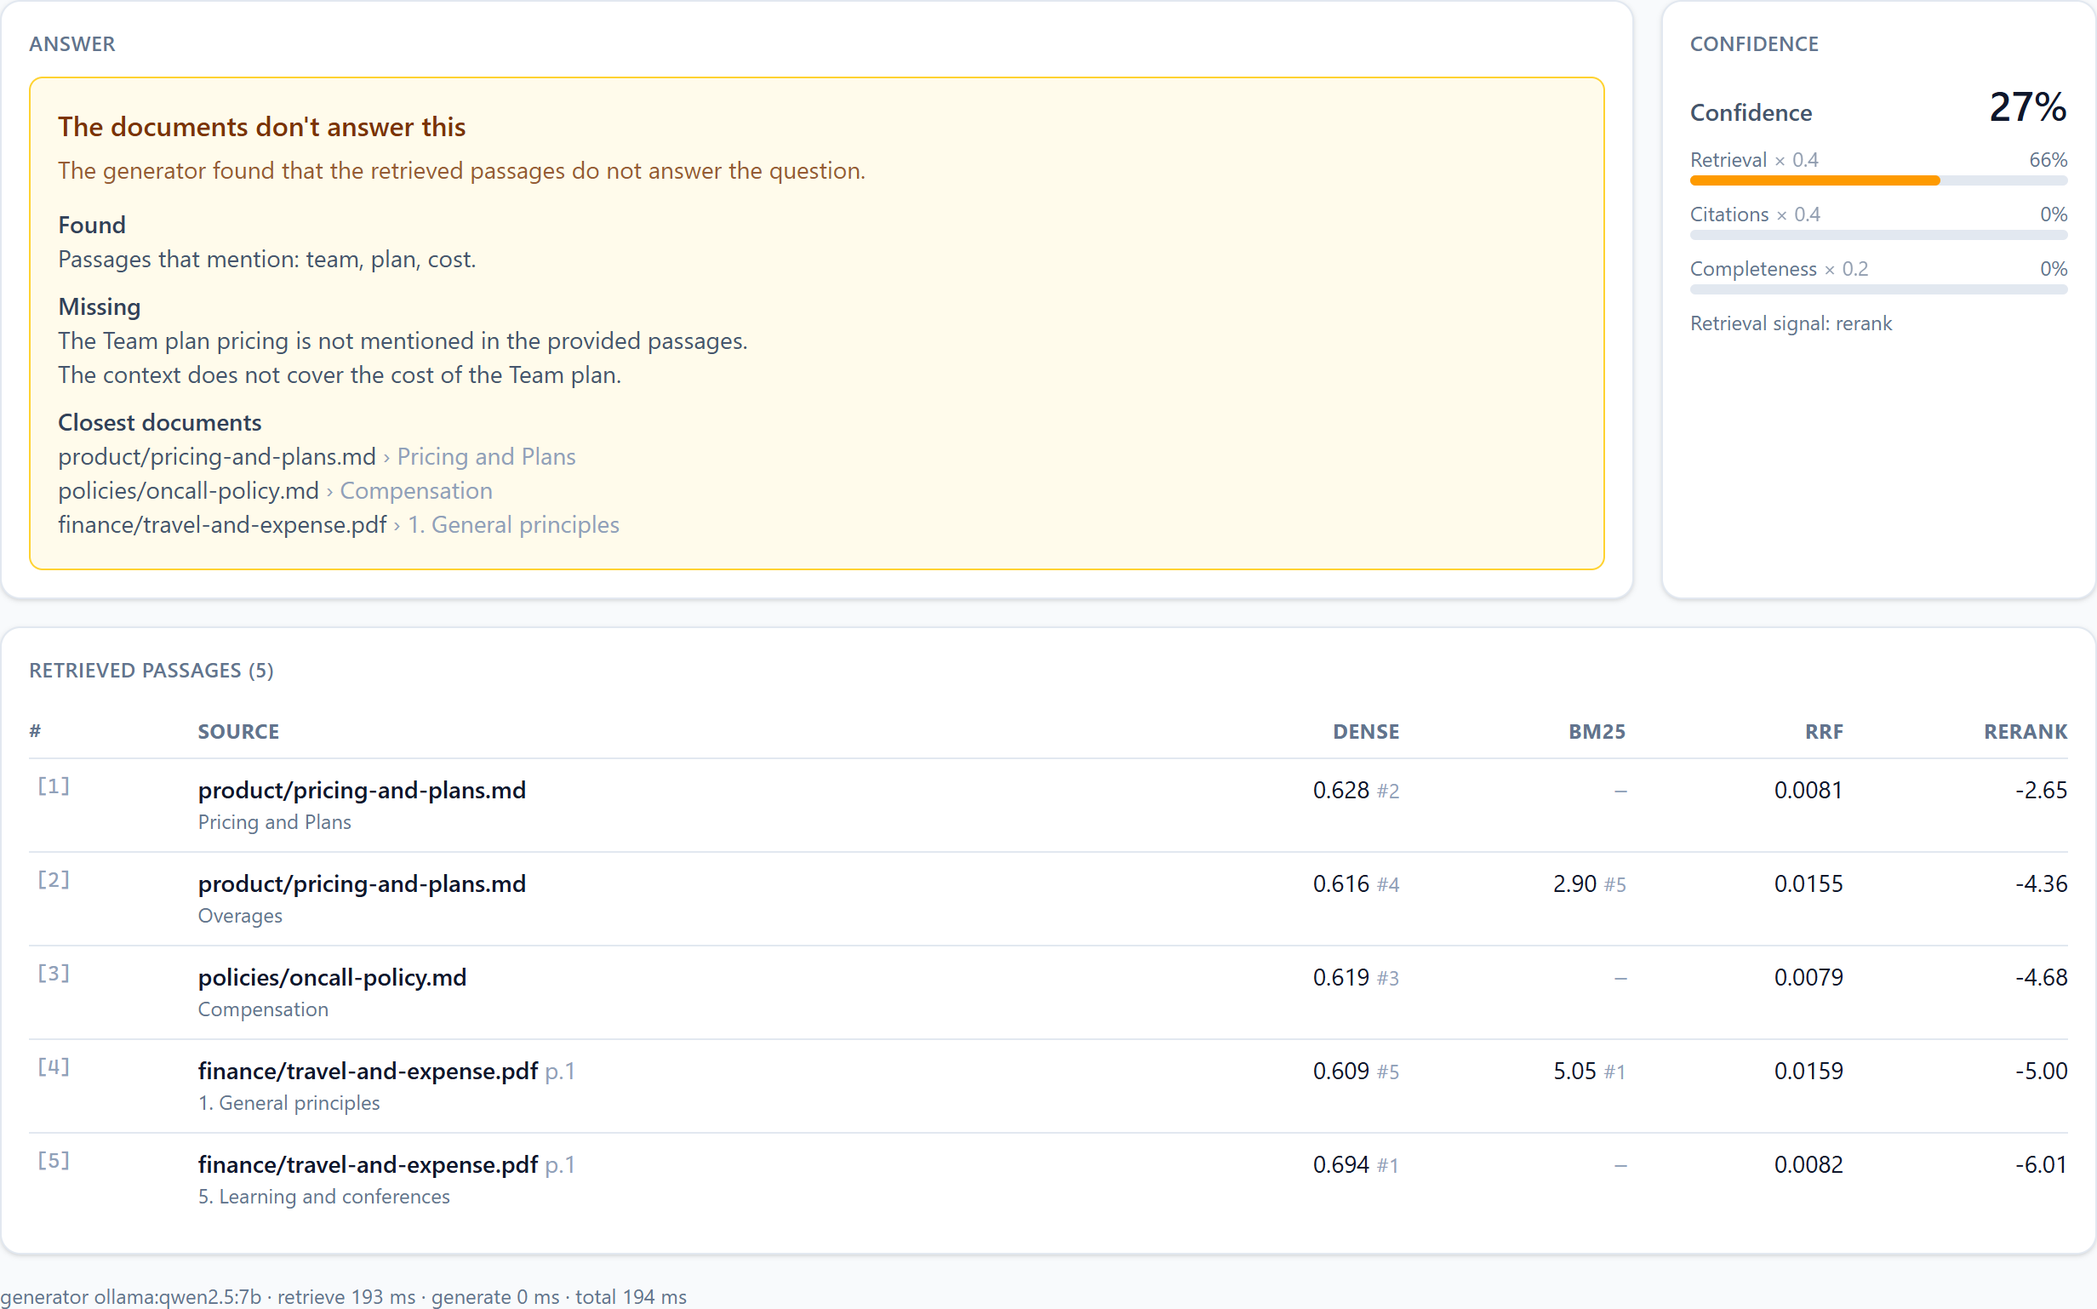
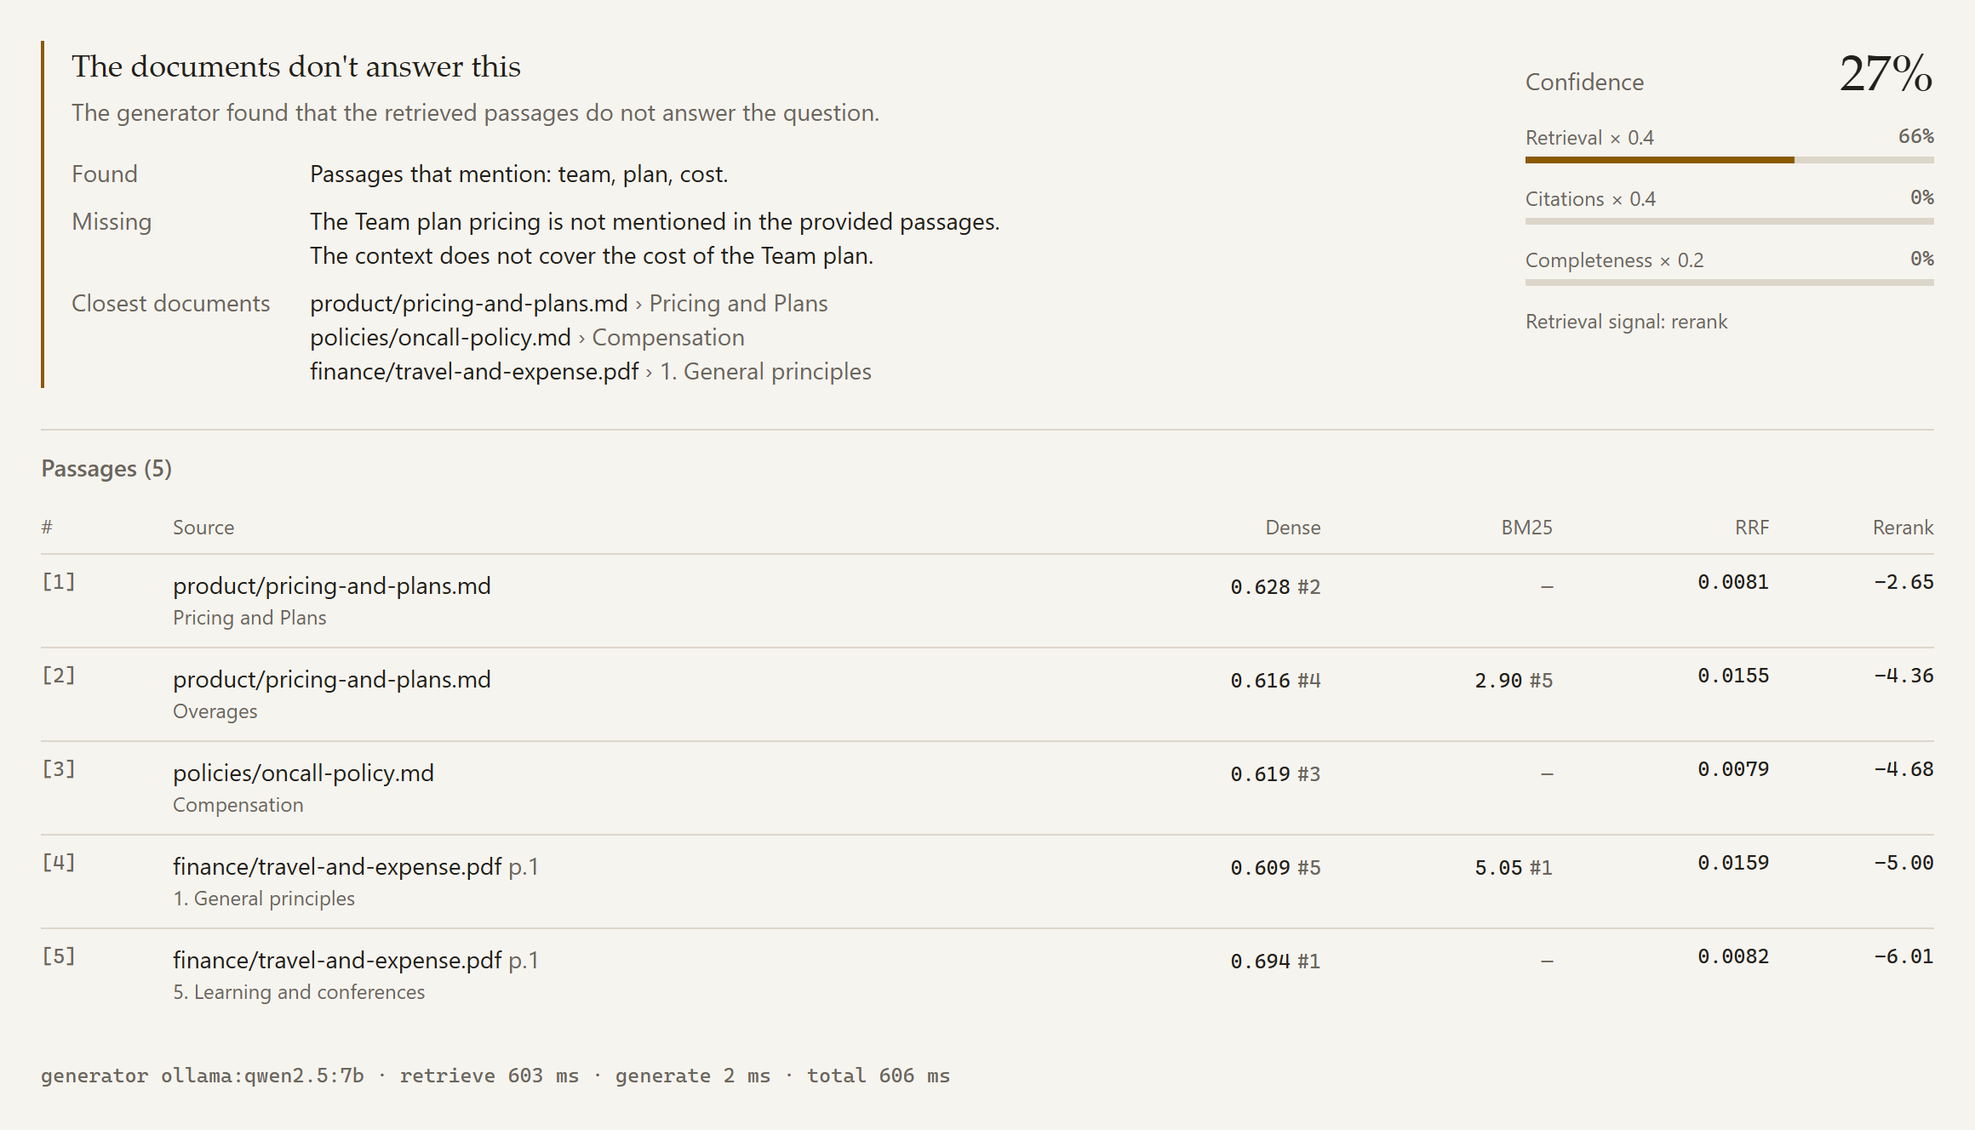
docs: state the test set's limits, add known limitations
Says who wrote the test questions, that BM25 alone ties hybrid search
on them, and that 31 of 32 is 8 questions over four setups. Adds a
known limitations section, a dark-mode screenshot and new screenshots
showing the corrected confidence.

diff --git a/README.md b/README.md
@@ -9,14 +9,14 @@ Everything runs locally on Ollama. No API keys, no per-query cost.
 ![Python](https://img.shields.io/badge/python-3.11%20%7C%203.12%20%7C%203.13-blue)
 ![License](https://img.shields.io/badge/license-MIT-green)
 
-Measured on a 55-question test set with `qwen2.5:7b` and `llama3.1:8b` on a laptop GPU:
+Measured on a 55-question test set with `qwen2.5:7b` and `llama3.1:8b` on a laptop GPU. I wrote the test questions and the sample docs myself, so these are best-case numbers; see [Known limitations](#known-limitations).
 
 | | |
 |---|---|
 | Evidence found in the top 5 results | 98.9% |
-| Correct answers, of the ones it gave | 91.3% |
+| Correct answers, of the ones it gave (graded by a model) | 91.3% |
 | Answer sentences backed by the passage they cite | 97.5% |
-| Unanswerable questions it declined to answer | 31 of 32 |
+| Questions the docs can't answer that it declined | 8 of 8 |
 
 ![Hybrid and dense-only search side by side on the query NW-4290](docs/images/compare.png)
 
@@ -50,7 +50,7 @@ Documents are split into sections and chunked one of three ways (fixed size, by 
 
 At query time both searches run, their rankings are merged with Reciprocal Rank Fusion, and a cross-encoder reranks the top 20. The answering model has to put a `[n]` after every sentence. A second model from a different family then checks each sentence against the passage it cites, all in one call, and also says whether the passages answer the question at all.
 
-The confidence score is `0.4 × retrieval + 0.4 × citation coverage + 0.2 × completeness`. Questions get declined at three points: when retrieval finds nothing relevant, when the answering model says the docs don't cover it, and when the checker finds the answer unsupported. The thresholds for those come from the test set, not from guesses.
+The confidence score is `0.4 × retrieval + 0.4 × citation coverage + 0.2 × completeness`. Citation coverage counts every citation the checker looked at, so a sentence that cites one right and one wrong passage gets half credit. Questions get declined at three points: when retrieval finds nothing relevant, when the answering model says the docs don't cover it, and when the checker finds the answer unsupported. The thresholds for those come from the test set, not from guesses.
 
 ## Running it
 
@@ -104,16 +104,18 @@ Retrieval, as the share of each question's evidence that shows up in the top 5:
 | fixed chunks + rerank | 93.6% | 97.9% | 97.9% |
 | semantic chunks + rerank | 92.5% | 94.7% | 93.6% |
 
-Reranking helps every setup, by 3 to 13 points. Dense search alone is clearly the weakest, especially on questions that need two documents. Splitting by headings beat splitting by topic shifts on these docs.
+Reranking helps every setup, by 3 to 13 points, and dense search alone is the weakest. But BM25 on its own does exactly as well as hybrid search here, and slightly better with semantic chunks. My test questions reuse a lot of the docs' wording, which suits keyword search, so on this test set the dense half adds nothing measurable. I kept it because real users paraphrase more than my questions do, but I haven't measured that. Splitting by headings beat splitting by topic shifts on these docs.
 
 Answers, graded against reference answers:
 
-| setup | correct | backed by citations | citation accuracy | answered | declined correctly / caught |
+| setup | correct | backed by citations | citation accuracy | answered | unanswerable declined |
 |---|---|---|---|---|---|
-| recursive, hybrid | **91.3%** | 97.5% | 83.9% | 97.9% | 88.9% / 100% |
-| recursive, dense | 89.1% | 96.0% | 83.9% | 97.9% | 88.9% / 100% |
-| fixed, hybrid | 87.2% | 96.3% | 86.8% | 100% | 100% / 100% |
-| semantic, hybrid | 83.3% | 94.9% | 81.8% | 95.7% | 77.8% / 87.5% |
+| recursive, hybrid | **91.3%** | 97.5% | 83.9% | 97.9% | 8 of 8 |
+| recursive, dense | 89.1% | 96.0% | 83.9% | 97.9% | 8 of 8 |
+| fixed, hybrid | 87.2% | 96.3% | 86.8% | 100% | 8 of 8 |
+| semantic, hybrid | 83.3% | 94.9% | 81.8% | 95.7% | 7 of 8 |
+
+The same 8 unanswerable questions are asked in every setup, so across the four setups that is 31 of 32 answers declined, not 32 different questions.
 
 Deciding when to decline was the hardest part. A question like "How much does the Team plan cost?" pulls up the pricing page with a high score, but there is no Team plan. No retrieval threshold can tell that apart from a real answer, so the answering model and the checker handle those cases. Across all 220 answers in the test runs:
 
@@ -125,9 +127,20 @@ Deciding when to decline was the hardest part. A question like "How much does th
 
 The test set is small, and the grading model makes mistakes too: when I went through its INCORRECT verdicts by hand, 3 of the 5 were wrong. Treat the numbers as a way to compare setups, not as exact scores.
 
+## Known limitations
+
+- **The test set is easy.** I wrote both the 26 sample documents and the 55 questions, so the questions use the documents' own words. Real questions would score lower, and they would probably favour hybrid search over BM25 more than mine do.
+- **Few near misses.** Only 6 distinct questions are of the "sounds answerable but isn't" kind, like asking for the price of a Team plan that doesn't exist. With semantic chunking one of them still gets through: the model calls the Growth plan the Team plan and the checker accepts it.
+- **The grader is noisy.** Correctness comes from `llama3.1:8b` comparing answers to reference answers, and it often marks right answers wrong.
+- **The confidence score doesn't separate right from wrong answers.** On the main setup it averages 93% for both. It's useful for spotting unsupported citations in a single answer, not as a filter.
+- **Refusals split over two lines** are parsed as a gap plus a cited fact. The checker usually catches it, but the parser should handle it (TODO in `src/hyrag/generation/claims.py`).
+- **Duplicate removal keeps the first copy it sees**, which on the sample docs is the leave FAQ rather than the official PTO policy (TODO in `src/hyrag/index/dedup.py`).
+- **It's slow.** About 15 seconds per answer on an 8 GB GPU, 11 of them spent checking citations while the two models swap in and out of memory.
+- **The system prompt names the sample company.** Point it at your own docs and the prompt still tells the model they belong to Northwind Cloud, until you edit `src/hyrag/generation/prompts.py`.
+
 ## Screenshots
 
-When the model cites a passage that doesn't support a sentence, the checker flags it and the citation is struck through:
+When the model cites a passage that doesn't support a sentence, the checker flags it, the citation is struck through and the citation part of the confidence score drops:
 
 ![An answer with two flagged citations](docs/images/answer.png)
 
@@ -138,6 +151,10 @@ A question the docs can't answer. It shows what it found, what's missing and whe
 The evaluation tab:
 
 ![The evaluation tab](docs/images/evaluation.png)
+
+The dashboard follows the system's dark mode:
+
+![The ask tab in dark mode](docs/images/dark.png)
 
 ## Project layout
 

diff --git a/docs/ROADMAP.md b/docs/ROADMAP.md
@@ -1,56 +1,15 @@
 # Roadmap
 
-hy-rag is built in five phases. Each phase ends with a stable interface that the next phase builds on, and ships as a tagged release.
+Things I'd like to do next, roughly in order:
 
-| Phase | Release | Focus | Handoff interface |
-|---|---|---|---|
-| 1 | v0.1.0 | Multi-format ingestion and chunking | `load_corpus()`, `get_chunker().chunk()` |
-| 2 | v0.2.0 | Indexing, dedup and hybrid retrieval | `HybridRetriever.retrieve()` |
-| 3 | v0.3.0 | Grounded generation, citation verification, confidence | `AnswerPipeline.ask()` |
-| 4 | v0.4.0 | Evaluation framework and FastAPI service | `eval/results/summary.json`, `/v1/*` |
-| 5 | v1.0.0 | React dashboard, Docker, case study | `docker compose up` |
-
-## Phase 1: Ingestion and chunking ✅
-
-- [x] Loaders for Markdown, text, HTML and PDF, with normalized metadata
-- [x] Raw and processed document store; re-index without re-uploading
-- [x] Fixed, recursive (header-aware) and semantic chunking strategies
-- [x] Northwind Cloud sample corpus (26 docs, 4 formats)
-- [x] CI, tests and community files
-
-## Phase 2: Indexing and hybrid retrieval ✅
-
-- [x] Local embeddings (`bge-small-en-v1.5` via fastembed) with a disk cache
-- [x] ChromaDB vector store and BM25 index kept in sync by a single index manager
-- [x] Near-duplicate filtering (cosine > 0.95) before insert
-- [x] Dense and sparse retrieval, weighted Reciprocal Rank Fusion
-- [x] Cross-encoder reranking (top 20 → top 5)
-
-## Phase 3: Generation and citations ✅
-
-- [x] LLM adapters: Ollama (default, local), optional OpenAI and Anthropic, a response cache and a deterministic stub for CI
-- [x] Grounded prompt with numbered `[n]` citations
-- [x] Citation verification with an LLM judge from a different model family, batched into one call
-- [x] Composite confidence score (retrieval, citation coverage, completeness)
-- [x] Structured "I don't know" responses when retrieval is weak
-
-## Phase 4: Evaluation and API ✅
-
-- [x] 55-question golden dataset: lookup, multi-hop, exact-term, unanswerable, ambiguous
-- [x] Metrics: recall@k, MRR, correctness, faithfulness, citation accuracy, abstention precision
-- [x] Comparison matrix: 3 chunking strategies × hybrid / dense / sparse, with and without reranking
-- [x] Abstention thresholds tuned on the eval data, plus a judge answerability check
-- [x] FastAPI service: `/v1/ask`, `/v1/search`, `/v1/documents`, `/v1/ingest`, `/v1/eval/summary`
-- [x] Offline evaluation in CI on every pull request
-
-## Phase 5: Dashboard and deployment ✅
-
-- [x] React dashboard: answers with clickable citations, score breakdowns, hybrid vs dense comparison, eval charts, document upload
-- [x] Docker Compose with the API (Chroma embedded in the API), Ollama and the dashboard, plus a seed script and a GPU file
-- [x] Case study with evaluation results, and a demo script
-
-## Beyond 1.0
-
-- More near-miss questions in the golden set, and human labels to calibrate the correctness judge
-- A smaller judge, or room for both models on the GPU, to cut verification latency
-- A Chroma server behind `VectorStore` if the index outgrows one machine
+- Add more near-miss questions to the test set. There are only 6 distinct ones, so the
+  numbers for declining rest on very few cases.
+- Get the test questions written by someone who didn't write the sample documents. Right
+  now both come from me, which makes the test easier than real questions would be.
+- Label a few dozen answers by hand to check the grading model, which is often wrong about
+  what counts as incorrect.
+- Parse refusals that the model splits over two lines (see the TODO in
+  `src/hyrag/generation/claims.py`).
+- Cut the time per answer. Most of it goes to swapping the answering and checking models in
+  and out of an 8 GB GPU; a smaller checking model would help.
+- Let the system prompt name the user's own organisation instead of the sample company.

diff --git a/docs/demo-script.md b/docs/demo-script.md
@@ -4,15 +4,16 @@ A shot list for a screen recording. Start with the stack running (`docker compos
 
 | # | Time | Screen | Say |
 |---|---|---|---|
-| 1 | 0:00–0:20 | README, scrolled to the results table | "This is a RAG system over a company's internal docs: runbooks, configs, policies, postmortems. It runs fully local on a laptop GPU, and every number here comes from a 55-question evaluation." |
+| 1 | 0:00–0:20 | README, scrolled to the results table | "This answers questions over a set of internal docs: runbooks, configs, policies, postmortems. It runs locally on a laptop GPU. The numbers come from 55 test questions I wrote alongside the sample docs, so they're a best case." |
 | 2 | 0:20–0:55 | Ask tab: "What error do I get when a batch exceeds ingest.max_batch_size?" | "Each sentence cites a passage. Click `[1]` and it scrolls to the passage and highlights it. Under that, a second model, from a different family, checked every sentence against the passage it cites." |
-| 3 | 0:55–1:35 | Turn on **Compare hybrid vs dense**, turn off **Rerank**, ask `NW-4290` | "Error codes are where embeddings fail. Dense search alone ranks this error's own page tenth; it's guessing. Keyword search finds it first, and the hybrid combines both. Look at the score columns: dense, BM25, fusion, rerank, all visible." |
-| 4 | 1:35–2:10 | Ask "What should I do when CertExpiringSoon fires?" | "Here the model cited two irrelevant passages along with the right one. The judge flagged them in red, and the confidence score drops. You see the mistake instead of trusting it." |
+| 3 | 0:55–1:35 | Turn on **Compare hybrid vs dense**, turn off **Rerank**, ask `NW-4290` | "Error codes are where embeddings struggle. Dense search alone ranks this error's own page tenth, so it declines to answer. Keyword search finds it first. The columns show each stage's score." |
+| 4 | 1:35–2:10 | Ask "What should I do when CertExpiringSoon fires?" | "Here the model cited two irrelevant passages along with the right one. The checker crosses them out, and the citation part of the confidence score drops with them." |
 | 5 | 2:10–2:50 | Ask "How much does the Team plan cost?", then "Who won the 2022 World Cup?" | "There is no Team plan. The pricing page is retrieved and looks relevant, but the model says the documents don't answer it, and shows what it found, what's missing and where to look. The football question never reaches the model at all: retrieval confidence is near zero." |
-| 6 | 2:50–3:25 | Evaluation tab | "Hybrid plus reranking finds 98.9% of the evidence. Answers are 91% correct with 97.5% of sentences supported. Wrong answers shown drop from 41 to 6 out of 220 with the abstention layers, and those thresholds were tuned on the data, not guessed." |
+| 6 | 2:50–3:25 | Evaluation tab | "On this test set BM25 alone is as good as hybrid, which surprised me; the questions reuse the documents' wording. Dense on its own is clearly worse. With the declining rules, wrong answers shown went from 41 to 6 out of 220." |
 | 7 | 3:25–3:50 | Documents tab: drag in a Markdown file, then ask about it | "Upload a document and it's chunked, deduplicated, embedded and searchable in a few seconds." |
-| 8 | 3:50–4:00 | Terminal: `docker compose up` | "One command, no API keys, zero cost per query. The case study in the repo walks through every decision and the numbers behind it." |
+| 8 | 3:50–4:00 | Terminal: `docker compose up` | "One command, no API keys. The case study in the repo has the details and the known gaps." |
 
-**Tips:**
+Notes:
+
 - Record at 1440×900 or larger; the side-by-side view needs the width.
 - For shot 7, prepare a small Markdown file with a distinctive term, for example a fictional on-call tool named "Q-77", so the answer obviously comes from the upload.

diff --git a/docs/case-study.md b/docs/case-study.md
@@ -1,6 +1,8 @@
 # Case study: checked answers over internal docs, on a laptop
 
-In short: on a 55-question test set, 97.5% of answer sentences are backed by the passage they cite, 83.9% of individual citations hold up, and 31 of 32 unanswerable questions are declined. It runs on 7B and 8B models on an 8 GB laptop GPU, so there's no per-query cost.
+In short: on a 55-question test set, 97.5% of answer sentences are backed by the passage they cite, 83.9% of individual citations hold up, and all 8 questions the docs can't answer are declined. It runs on 7B and 8B models on an 8 GB laptop GPU, so there's no per-query cost.
+
+One caveat up front: I wrote the test questions and the documents, so the questions use the documents' own wording. Treat these as best-case numbers.
 
 ## The problem
 
@@ -22,6 +24,8 @@ I also replaced the BM25 scoring in `rank_bm25`. Its idf gives zero weight to an
 
 Result: 84.0% recall@5 for dense search alone, 98.9% for hybrid with reranking.
 
+The less flattering part: BM25 on its own also gets 98.9%, and with semantic chunks it beats hybrid slightly (94.7% against 93.6%). On my test set the dense half adds nothing measurable, because the questions repeat the documents' words and keyword search is good at that. Whether dense search earns its place on paraphrased questions I haven't tested.
+
 ### Citations that point at the wrong passage
 
 Asked how many PTO days carry over, `qwen2.5:7b` gave the right answer, "up to 5", but cited a passage about taking time off during an on-call week. Anyone who clicked that citation would be misled even though the answer was right.
@@ -30,7 +34,9 @@ So a second model, `llama3.1:8b`, checks every sentence against the passage it c
 
 Two prompt fixes mattered as well. Labelling passages `<passage id="n">` instead of `[n] Source:` stopped the 7B model from confusing passage headers with its own citations. And a worked example in the prompt got copied into an unrelated answer ("Unused PTO expires on March 31", cited to a certificate runbook), so I replaced it with a placeholder template.
 
-Result: 97.5% of answer sentences are backed by the passage they cite, and the dashboard marks the others in red.
+Result: 97.5% of answer sentences are backed by the passage they cite, and the dashboard strikes through the citations that aren't.
+
+The checks also feed the confidence score. At first, a sentence counted as covered if its best citation held up, so an answer with a wrong extra citation could still show 100%. Now every checked citation counts, and one wrong citation out of two halves that sentence's share.
 
 ### Deciding when to decline
 
@@ -73,7 +79,7 @@ Embeddings and reranking run on the CPU through fastembed. Answering and checkin
 | correct answers, of those given | 91.3% |
 | sentences backed by their citation | 97.5% |
 | citation accuracy | 83.9% |
-| unanswerable questions declined | 31 of 32 |
+| unanswerable questions declined | 8 of 8 (31 of 32 over all four setups) |
 | time per answer on an 8 GB GPU | about 15 s, of which about 11 s is the checking step |
 
 ## What I'd do next

diff --git a/CHANGELOG.md b/CHANGELOG.md
@@ -4,6 +4,21 @@ All notable changes to this project are documented here. The format follows [Kee
 
 ## [Unreleased]
 
+### Fixed
+
+- The confidence score ignored wrong citations when a sentence had at least one right one, so an answer with struck-through citations could still show 100%. Citation coverage now averages every citation the checker looked at. The faithfulness metric in the evaluation keeps its old meaning.
+
+### Changed
+
+- New dashboard look in light and dark mode, using system fonts. The example questions are gone from the Ask tab, and the header shows the models and index size instead of the sample company's name.
+- The evaluation tab starts its recall axis at 0, says when BM25 alone matches hybrid search, and counts declined questions as "N of 8" instead of percentages over repeated runs.
+- The README and case study say who wrote the test set, that BM25 ties hybrid on it, and list known limitations.
+- Development status is now Beta.
+
+### Removed
+
+- The code of conduct, security policy, CODEOWNERS and the issue and pull request templates.
+
 ## [1.0.0] - 2026-10-31
 
 ### Added
